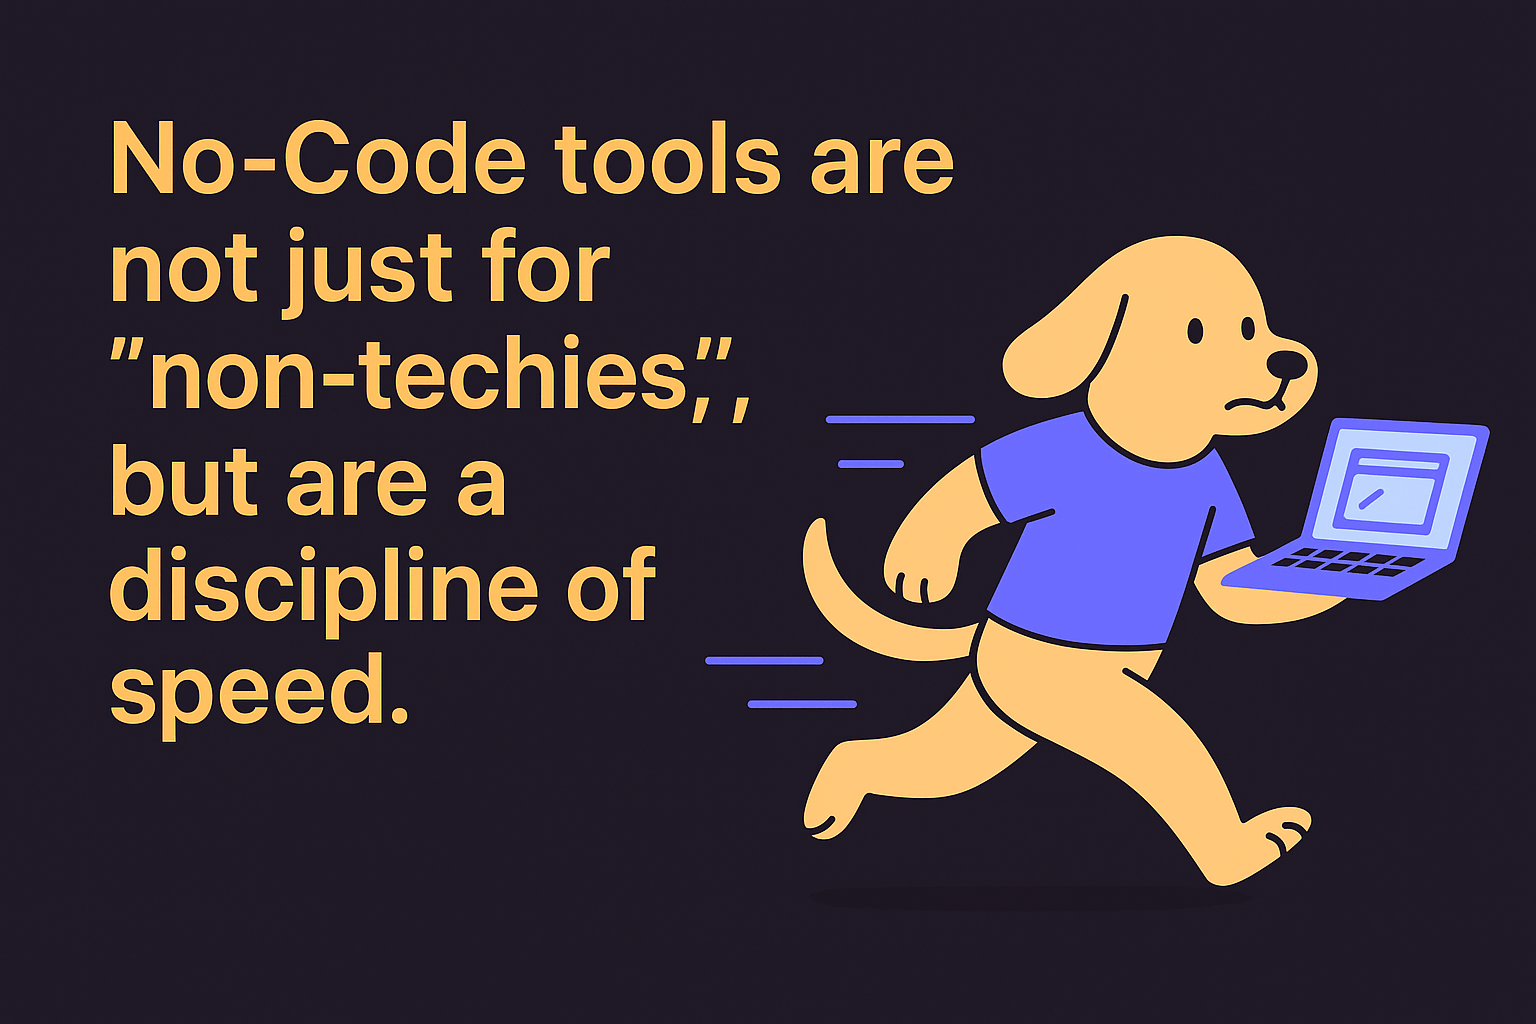
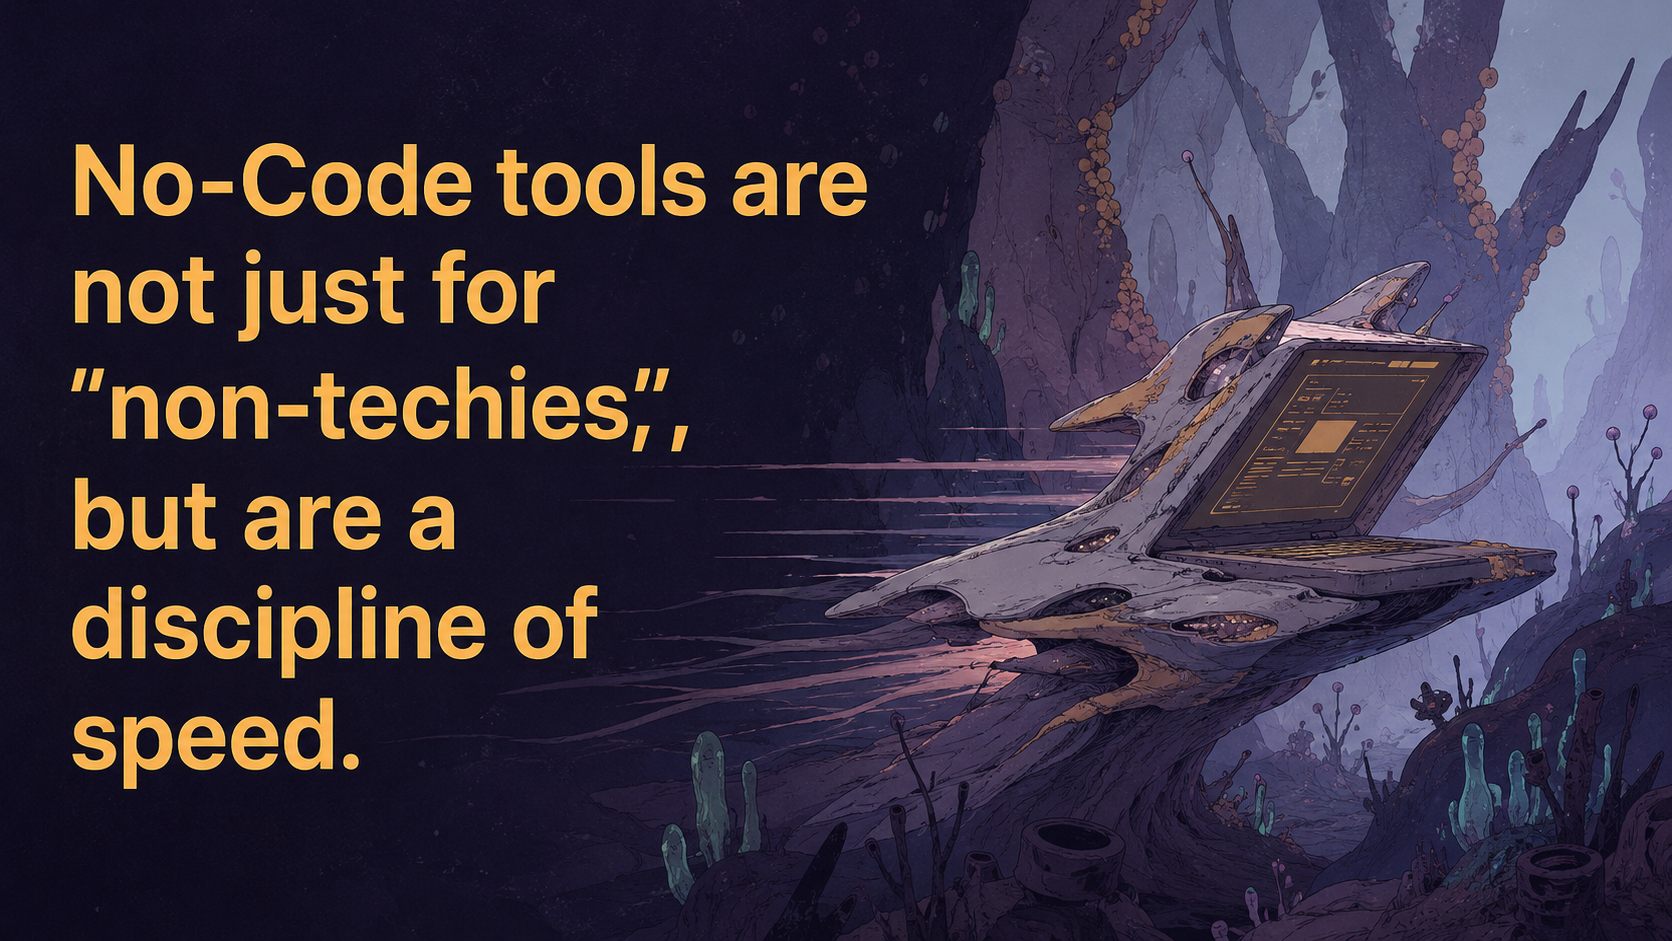
chore: update image widths and refine header padding for better consistency and responsiveness

diff --git a/styles/main.css b/styles/main.css
@@ -937,7 +937,7 @@ html.light body {
     }
 
     .site-header {
-        padding-top: 0 !important;
+        padding-top: 18px !important;
         margin-top: 0 !important;
         grid-template-columns: 1fr auto;
         row-gap: 10px;
@@ -997,8 +997,11 @@ html.light body {
 
     .theme-toggle-text {
         width: auto;
-        border: 1px solid color-mix(in srgb, var(--mw-line) 84%, transparent);
-        background: color-mix(in srgb, var(--mw-panel) 46%, transparent);
+        min-height: auto;
+        padding: 0;
+        border: 0;
+        border-radius: 0;
+        background: transparent;
     }
 
     .theme-toggle-text::before {
@@ -1008,6 +1011,7 @@ html.light body {
 
 @media (max-width: 420px) {
     .site-header {
+        padding-top: 16px !important;
         margin-top: 0 !important;
     }
 
@@ -1027,7 +1031,7 @@ html.light body {
 
     .theme-toggle-text {
         font-size: 12px;
-        padding-inline: 11px;
+        padding-inline: 0;
     }
 
     .site-header > .theme-toggle-text {
